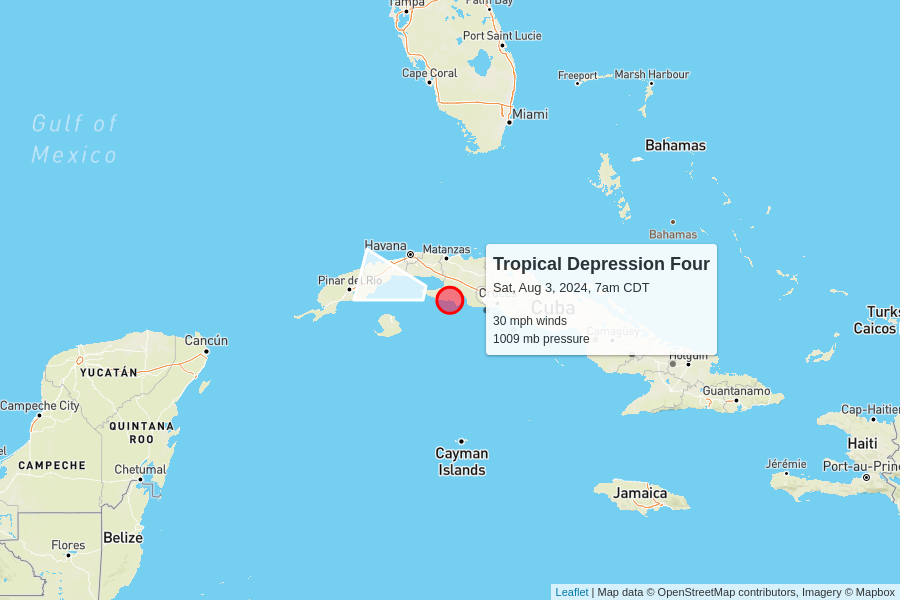
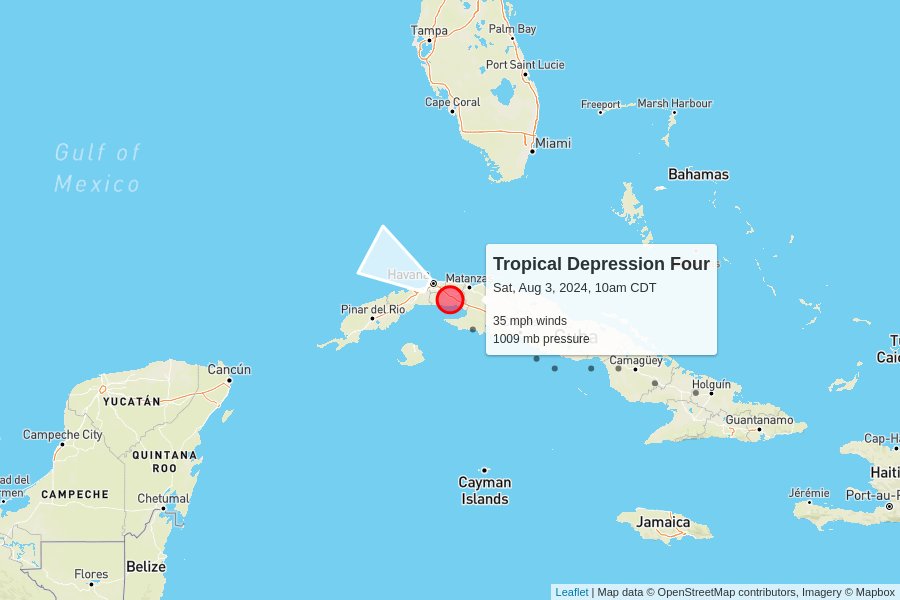
automatic update

diff --git a/docs/index.html b/docs/index.html
@@ -102,7 +102,7 @@
         <td colspan="6" class="storm category-0" >
           <h2>
             Tropical Depression Four
-            <p class="updated">last updated <span data-time>2024-08-03T12:00:00.000Z</span></p>
+            <p class="updated">last updated <span data-time>2024-08-03T15:00:00.000Z</span></p>
           </h2>
         </td>
       </tr>
@@ -117,12 +117,12 @@
       </tr>
       <tr>
         <td class="spacer"></td>
-        <td>30 mph<br>0 mph since last update</td>
+        <td>35 mph<br>+5 mph since last update</td>
         <td>1009 mb<br>0 mb since last update</td>
         <td>
-          16 mph to the west-northwest
+          15 mph to the west-northwest
           <br/>
-          <span style="display: inline-block; font-size: 1.5em; transform: rotate(285deg);">↑</span>
+          <span style="display: inline-block; font-size: 1.5em; transform: rotate(300deg);">↑</span>
         </td>
         <td><a href="https://raw.githubusercontent.com/mgwalker/atlantic-hurricanes/main/data/csv/AL042024.csv">AL042024.csv</a></td>
         <td><a href="https://www.nhc.noaa.gov/archive/2024/FOUR.shtml?">NHC advisories</a></td>
